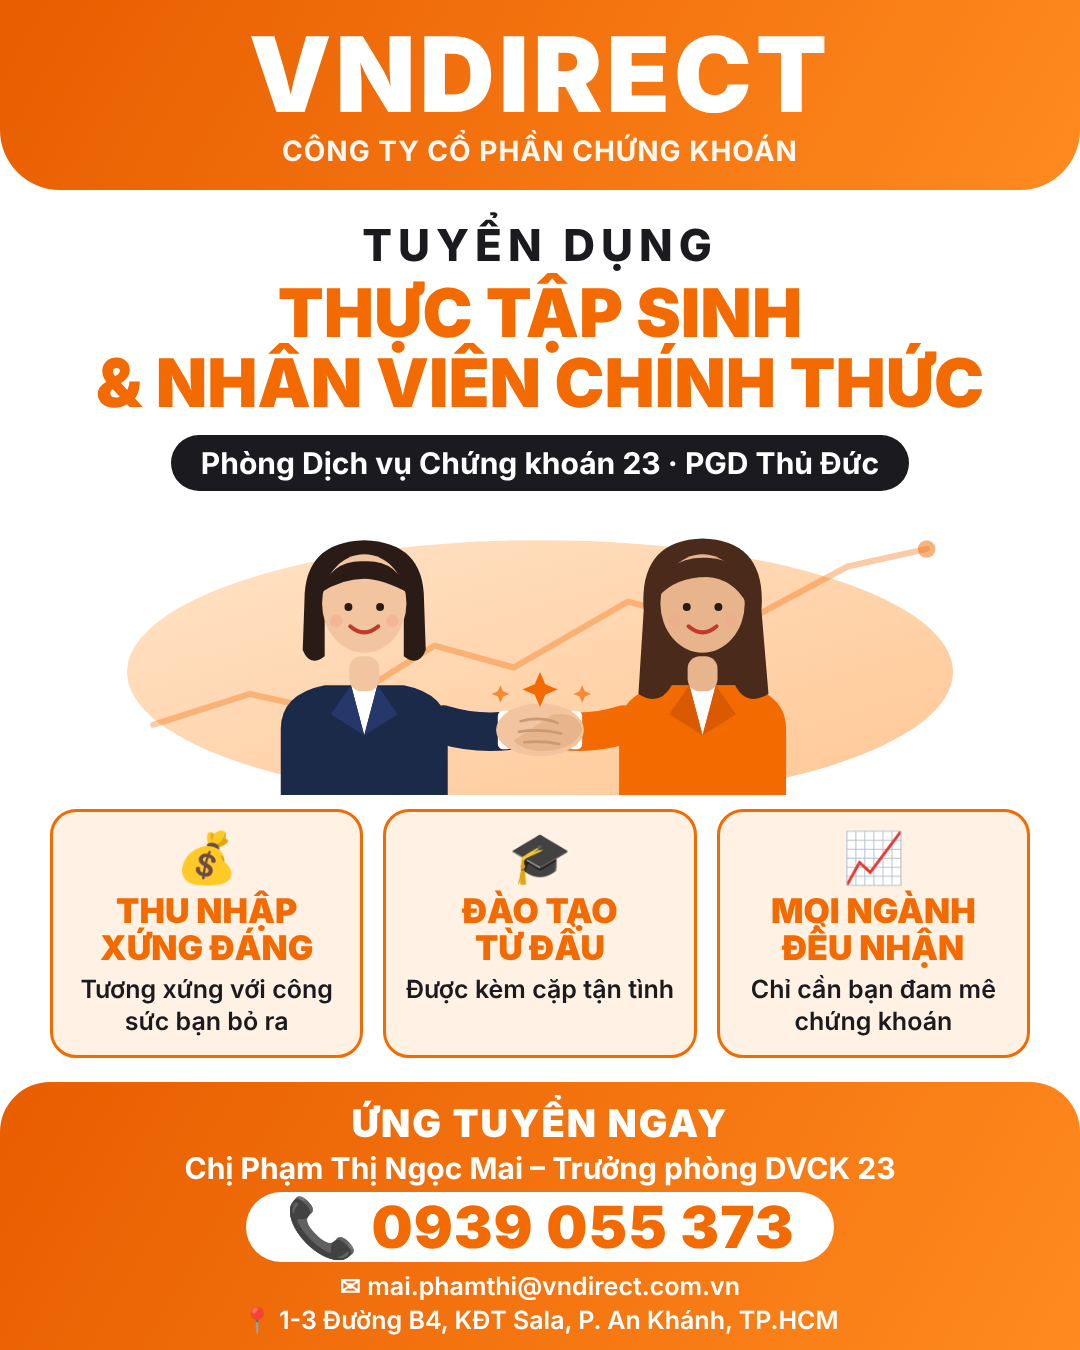
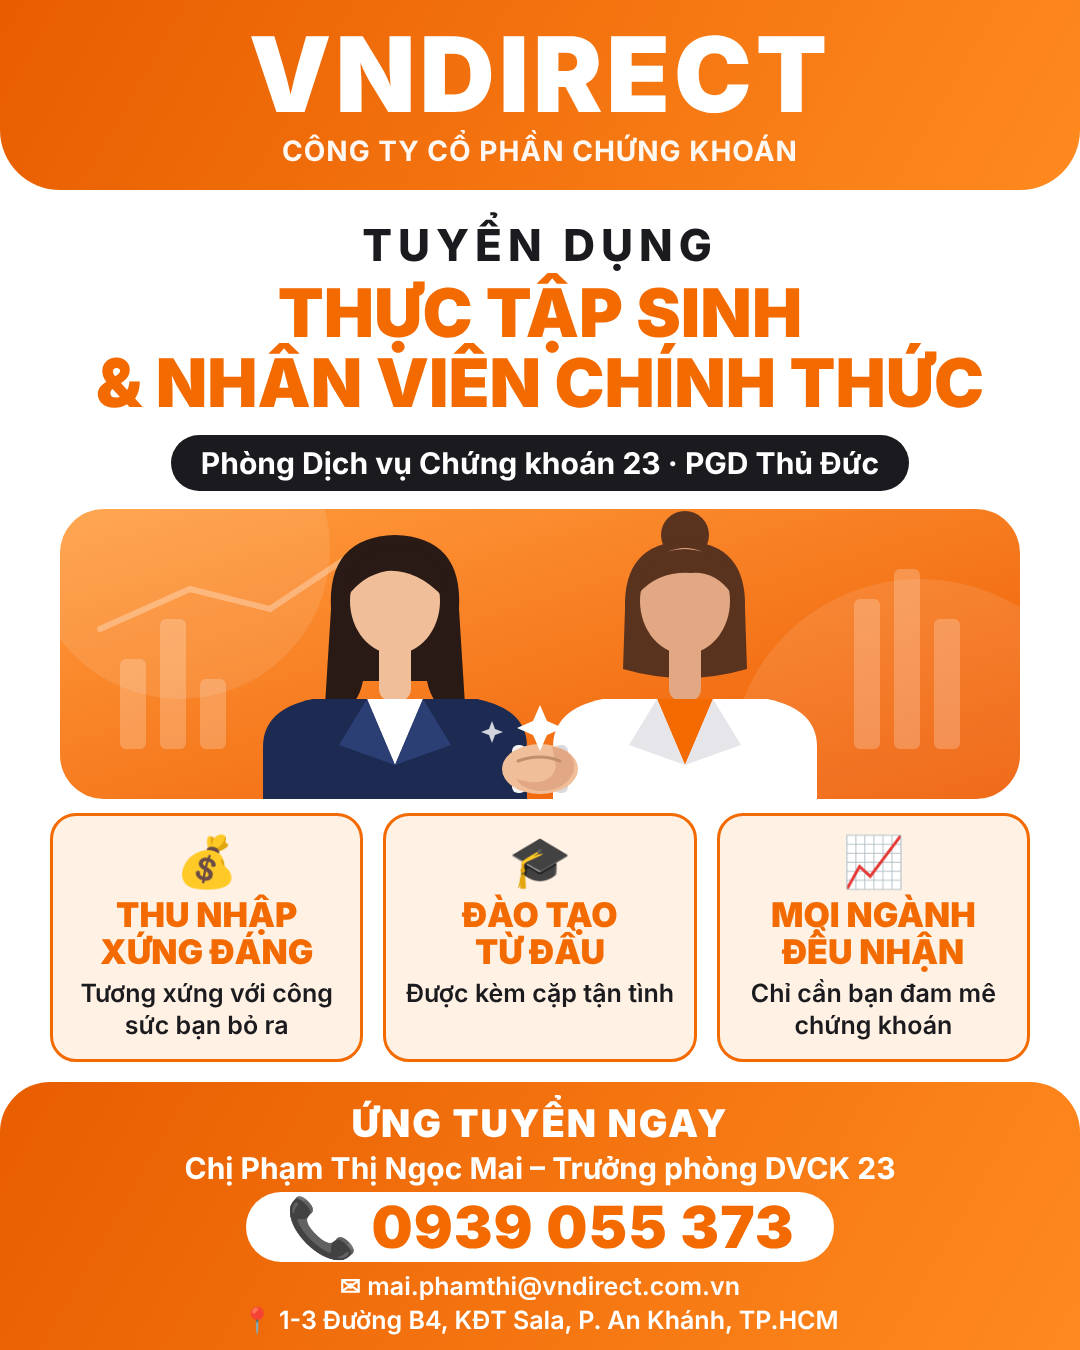
Redraw handshake illustration in faceless flat style inside orange hero card
Claude-Session: https://claude.ai/code/session_018tv2baJyNPqKrqKUyJ6wTq

Changed region(s): [[0.0306, 0.3733, 0.9472, 0.8089], [0.3667, 0.7778, 0.6417, 0.8089]]

diff --git a/tuyen-dung-vndirect/banner.html b/tuyen-dung-vndirect/banner.html
@@ -11,7 +11,7 @@ body{width:1080px;height:1350px;font-family:"Inter","Segoe UI",Arial,"Noto Sans"
 .hl .k{font-size:44px;font-weight:800;letter-spacing:6px;color:var(--d)}
 .hl h1{font-size:67px;line-height:1.05;font-weight:900;color:var(--o);text-transform:uppercase;margin-top:6px}
 .hl .s{display:inline-block;margin-top:16px;background:var(--d);color:#fff;font-size:30px;font-weight:700;padding:10px 30px;border-radius:40px}
-.art{margin:14px auto 0;width:1000px;height:290px;position:relative}
+.art{margin:18px auto 0;width:960px;height:290px;position:relative}
 .art svg{width:100%;height:100%}
 .cards{display:flex;gap:20px;padding:0 50px;margin-top:14px}
 .card{flex:1;background:var(--peach);border:3px solid var(--o);border-radius:26px;padding:20px 14px 18px;text-align:center}
@@ -27,49 +27,44 @@ body{width:1080px;height:1350px;font-family:"Inter","Segoe UI",Arial,"Noto Sans"
 <div class="top"><div class="brand">VNDIRECT</div><p>CÔNG TY CỔ PHẦN CHỨNG KHOÁN</p></div>
 <div class="hl"><div class="k">TUYỂN DỤNG</div><h1>Thực tập sinh<br>& Nhân viên chính thức</h1><div class="s">Phòng Dịch vụ Chứng khoán 23 · PGD Thủ Đức</div></div>
 <div class="art">
-<svg viewBox="0 0 1000 330" xmlns="http://www.w3.org/2000/svg">
-<defs><linearGradient id="bg" x1="0" y1="0" x2="1" y2="1"><stop offset="0" stop-color="#ffe3c7"/><stop offset="1" stop-color="#ffc794"/></linearGradient></defs>
-<ellipse cx="500" cy="190" rx="470" ry="150" fill="url(#bg)"/>
-<!-- chart line -->
-<polyline points="60,250 170,215 260,235 380,160 470,185 600,110 720,140 850,70 940,50" fill="none" stroke="#f26a00" stroke-width="7" stroke-linecap="round" stroke-linejoin="round" opacity=".35"/>
-<circle cx="940" cy="50" r="10" fill="#f26a00" opacity=".5"/>
-<!-- LEFT woman -->
-<g>
-<path d="M205 330 L205 255 Q205 215 255 205 L345 205 Q395 215 395 255 L395 330Z" fill="#1c2a4a"/>
-<path d="M285 205 L300 262 L315 205Z" fill="#fff"/>
-<path d="M285 205 L262 238 L300 262Z" fill="#26386a"/><path d="M315 205 L338 238 L300 262Z" fill="#26386a"/>
-<rect x="283" y="172" width="34" height="40" rx="14" fill="#f2c4a0"/>
-<path d="M232 108 Q232 42 300 40 Q368 42 368 108 L370 165 Q362 185 345 172 L345 112 Q300 120 255 112 L255 172 Q238 185 230 165Z" fill="#2b1b17"/>
-<ellipse cx="300" cy="112" rx="48" ry="56" fill="#f2c4a0"/>
-<path d="M250 100 Q262 62 300 64 Q338 62 350 100 Q320 84 300 84 Q275 84 250 100Z" fill="#2b1b17"/>
-<circle cx="282" cy="116" r="4.5" fill="#2b1b17"/><circle cx="318" cy="116" r="4.5" fill="#2b1b17"/>
-<path d="M284 138 Q300 152 316 138" fill="none" stroke="#c0392b" stroke-width="4.5" stroke-linecap="round"/>
-<circle cx="268" cy="132" r="7" fill="#f4a58a" opacity=".5"/><circle cx="332" cy="132" r="7" fill="#f4a58a" opacity=".5"/>
+<svg viewBox="0 0 960 290" xmlns="http://www.w3.org/2000/svg">
+<defs>
+<clipPath id="c"><rect width="960" height="290" rx="44"/></clipPath>
+<linearGradient id="g" x1="0" y1="0" x2="1" y2="1"><stop offset="0" stop-color="#ff9d3f"/><stop offset="1" stop-color="#ee5a00"/></linearGradient>
+</defs>
+<g clip-path="url(#c)">
+<rect width="960" height="290" fill="url(#g)"/>
+<circle cx="120" cy="40" r="150" fill="#fff" opacity=".10"/><circle cx="860" cy="260" r="190" fill="#fff" opacity=".10"/>
+<g fill="#fff" opacity=".22"><rect x="60" y="150" width="26" height="90" rx="6"/><rect x="100" y="110" width="26" height="130" rx="6"/><rect x="140" y="170" width="26" height="70" rx="6"/><rect x="794" y="90" width="26" height="150" rx="6"/><rect x="834" y="60" width="26" height="180" rx="6"/><rect x="874" y="110" width="26" height="130" rx="6"/></g>
+<polyline points="40,120 130,80 210,100 300,40 380,60" fill="none" stroke="#fff" stroke-width="6" stroke-linecap="round" opacity=".3"/>
+<!-- left woman -->
+<g transform="translate(335,0)">
+<path d="M-64 100 Q-68 28 0 26 Q68 28 64 100 L70 196 Q40 210 32 172 L-32 172 Q-40 210 -70 196Z" fill="#2a1a16"/>
+<rect x="-16" y="128" width="32" height="64" rx="12" fill="#f0bf9a"/>
+<path d="M-132 290 L-132 238 Q-132 200 -82 190 L82 190 Q132 200 132 238 L132 290Z" fill="#1d2b52"/>
+<path d="M-28 190 L0 256 L28 190Z" fill="#fff"/><path d="M-28 190 L-56 236 L0 256Z" fill="#2c3f75"/><path d="M28 190 L56 236 L0 256Z" fill="#2c3f75"/>
+<ellipse cx="0" cy="92" rx="45" ry="53" fill="#f0bf9a"/>
+<path d="M-48 88 Q-44 36 6 38 Q50 40 48 88 Q22 60 -8 62 Q-32 66 -48 88Z" fill="#2a1a16"/>
 </g>
-<!-- RIGHT woman -->
-<g>
-<path d="M590 330 L590 255 Q590 215 640 205 L730 205 Q780 215 780 255 L780 330Z" fill="#f26a00"/>
-<path d="M670 205 L685 262 L700 205Z" fill="#fff"/>
-<path d="M670 205 L647 238 L685 262Z" fill="#d95a00"/><path d="M700 205 L723 238 L685 262Z" fill="#d95a00"/>
-<path d="M618 120 Q612 40 685 38 Q758 40 752 120 L760 215 Q735 230 722 205 L650 205 Q636 230 612 215Z" fill="#4a2a1a"/>
-<rect x="668" y="172" width="34" height="40" rx="14" fill="#e8b48c"/>
-<ellipse cx="685" cy="112" rx="48" ry="56" fill="#e8b48c"/>
-<path d="M635 104 Q640 58 690 60 Q738 62 735 112 Q720 84 690 82 Q655 82 635 104Z" fill="#4a2a1a"/>
-<circle cx="667" cy="116" r="4.5" fill="#2b1b17"/><circle cx="703" cy="116" r="4.5" fill="#2b1b17"/>
-<path d="M669 138 Q685 152 701 138" fill="none" stroke="#c0392b" stroke-width="4.5" stroke-linecap="round"/>
-<circle cx="653" cy="132" r="7" fill="#f4a58a" opacity=".5"/><circle cx="717" cy="132" r="7" fill="#f4a58a" opacity=".5"/>
+<!-- right woman -->
+<g transform="translate(625,0)">
+<circle cx="0" cy="26" r="24" fill="#5a331f"/>
+<path d="M-60 100 Q-62 34 0 32 Q62 34 60 100 L62 160 Q0 178 -62 160Z" fill="#5a331f"/>
+<rect x="-16" y="128" width="32" height="64" rx="12" fill="#e2a883"/>
+<path d="M-132 290 L-132 238 Q-132 200 -82 190 L82 190 Q132 200 132 238 L132 290Z" fill="#fff"/>
+<path d="M-28 190 L0 256 L28 190Z" fill="#f26a00"/><path d="M-28 190 L-56 236 L0 256Z" fill="#e6e6ea"/><path d="M28 190 L56 236 L0 256Z" fill="#e6e6ea"/>
+<ellipse cx="0" cy="92" rx="45" ry="53" fill="#e2a883"/>
+<path d="M-46 84 Q-40 40 0 40 Q46 42 46 84 Q30 62 6 64 Q-26 62 -46 84Z" fill="#5a331f"/>
 </g>
-<!-- ARMS + handshake -->
-<path d="M390 250 Q430 262 470 256" fill="none" stroke="#1c2a4a" stroke-width="44" stroke-linecap="round"/>
-<path d="M595 250 Q555 262 520 256" fill="none" stroke="#f26a00" stroke-width="44" stroke-linecap="round"/>
-<rect x="452" y="234" width="16" height="44" rx="6" fill="#fff"/>
-<rect x="532" y="234" width="16" height="44" rx="6" fill="#fff"/>
-<ellipse cx="500" cy="256" rx="50" ry="30" fill="#f2c4a0"/>
-<path d="M515 238 Q545 236 548 256 Q540 278 505 280 Q480 280 470 268" fill="#e8b48c"/>
-<path d="M478 246 Q500 240 520 248 M476 258 Q500 254 524 260 M482 270 Q502 268 522 272" fill="none" stroke="#c99a76" stroke-width="3" stroke-linecap="round"/>
-<!-- sparkles -->
-<g fill="#f26a00"><path d="M500 190 l6 14 14 6 -14 6 -6 14 -6 -14 -14 -6 14 -6z"/><path d="M455 205 l3 7 7 3 -7 3 -3 7 -3 -7 -7 -3 7 -3z" opacity=".7"/><path d="M548 205 l3 7 7 3 -7 3 -3 7 -3 -7 -7 -3 7 -3z" opacity=".7"/></g>
-</svg></div>
+<!-- arms + clasped hands -->
+<path d="M430 242 Q455 262 474 260" fill="none" stroke="#1d2b52" stroke-width="46" stroke-linecap="round"/>
+<path d="M530 242 Q505 262 486 260" fill="none" stroke="#fff" stroke-width="46" stroke-linecap="round"/>
+<rect x="452" y="236" width="14" height="48" rx="6" fill="#f4f4f7"/><rect x="494" y="236" width="14" height="48" rx="6" fill="#d9d9de"/>
+<ellipse cx="480" cy="260" rx="38" ry="25" fill="#f0bf9a"/>
+<path d="M492 238 Q516 240 514 262 Q506 282 480 282 Q462 280 456 270 Q490 280 496 258Z" fill="#e2a883"/>
+<path d="M458 252 Q480 244 500 252" fill="none" stroke="#c28f6c" stroke-width="3" stroke-linecap="round"/>
+<g fill="#fff"><path d="M480 196 l7 16 16 7 -16 7 -7 16 -7 -16 -16 -7 16 -7z"/><path d="M432 212 l3 8 8 3 -8 3 -3 8 -3 -8 -8 -3 8 -3z" opacity=".8"/><path d="M528 212 l3 8 8 3 -8 3 -3 8 -3 -8 -8 -3 8 -3z" opacity=".8"/></g>
+</g></svg></div>
 <div class="cards">
 <div class="card"><div class="i">💰</div><b>Thu nhập<br>xứng đáng</b><span>Tương xứng với công sức bạn bỏ ra</span></div>
 <div class="card"><div class="i">🎓</div><b>Đào tạo<br>từ đầu</b><span>Được kèm cặp tận tình</span></div>
